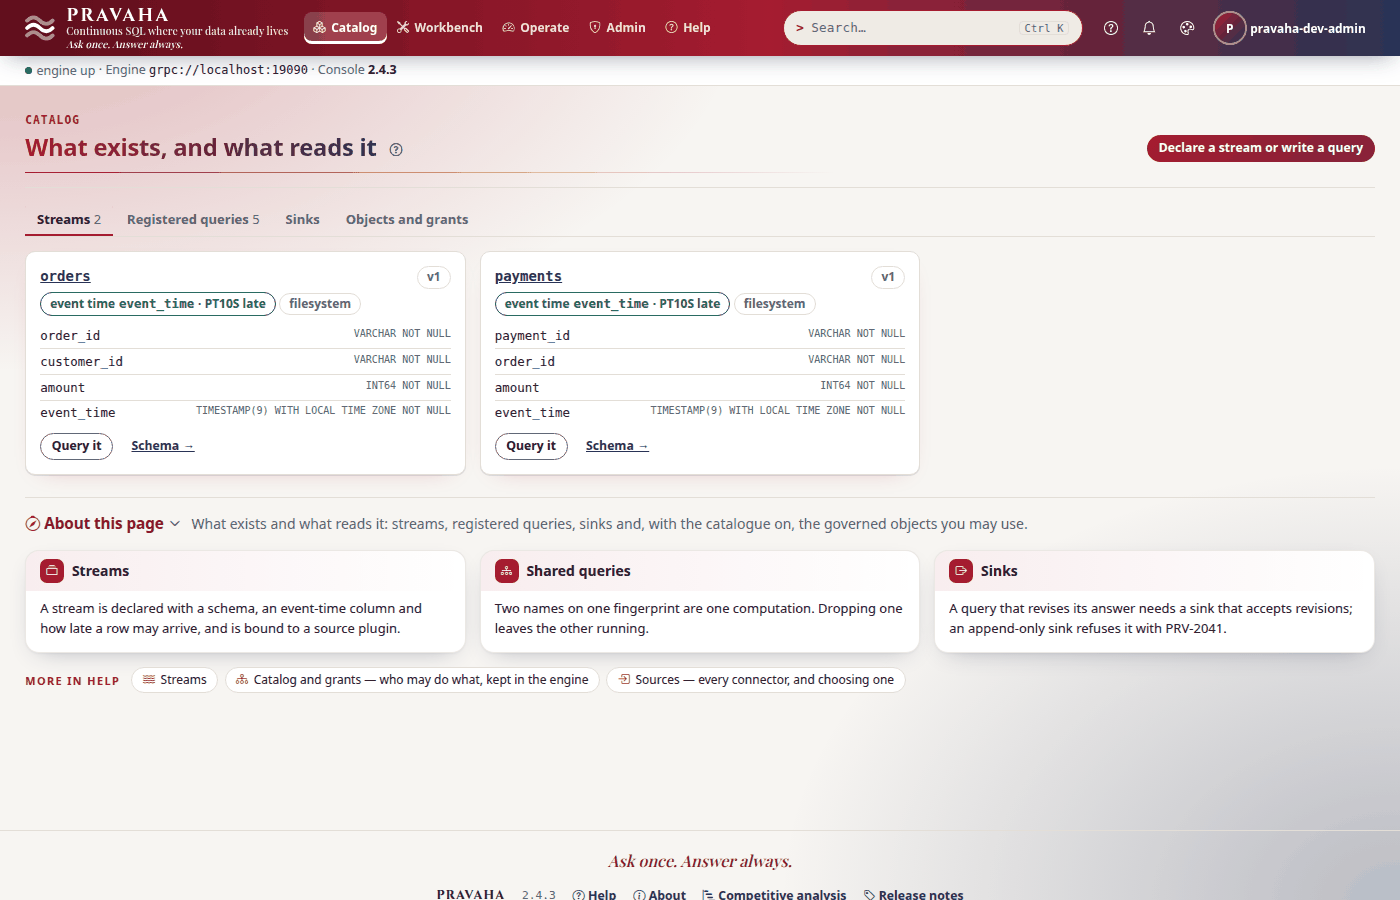
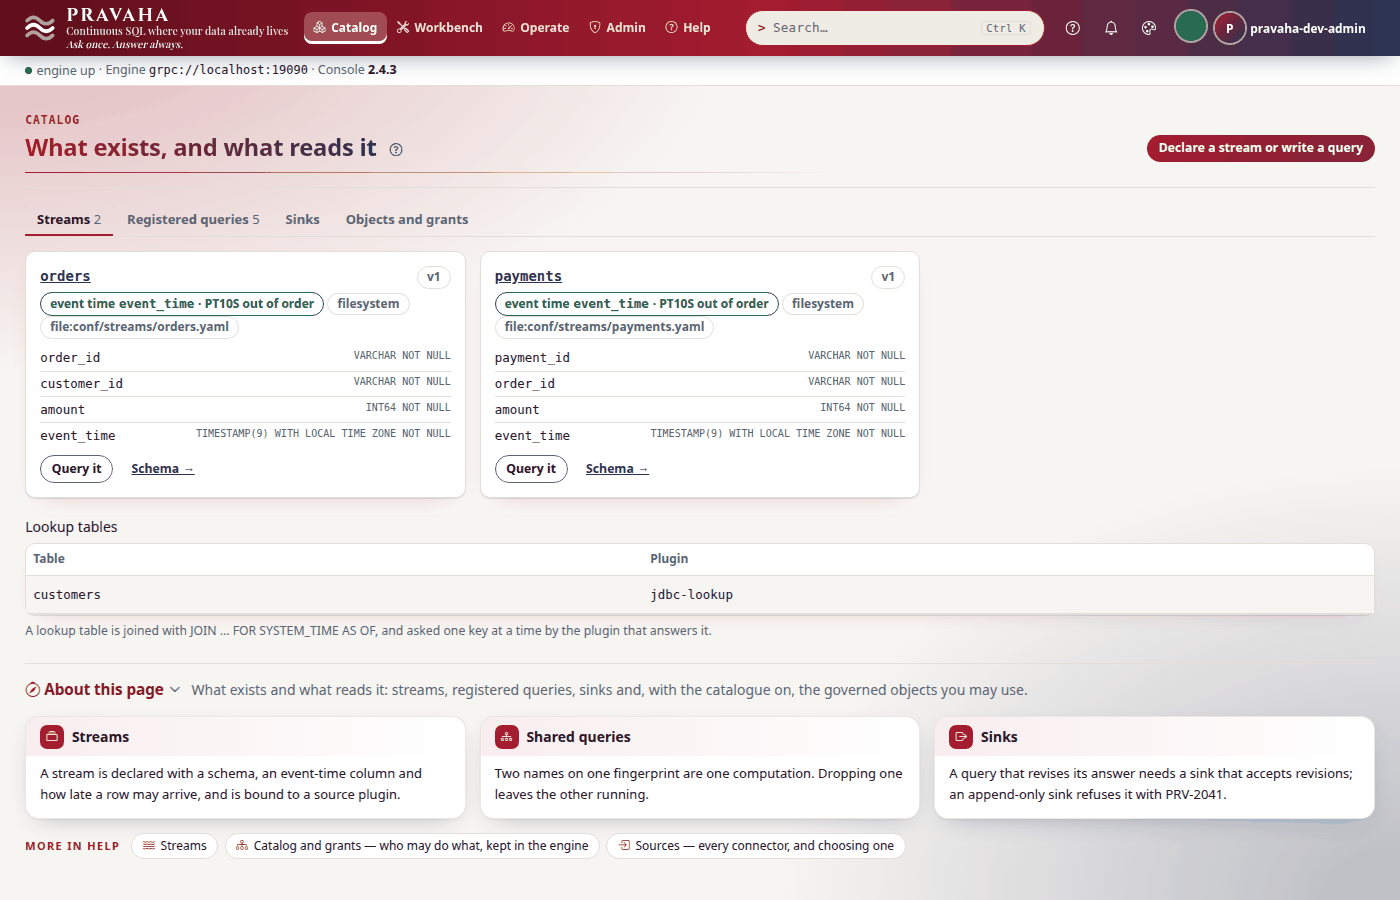
Tutorial 3: the streams and the lookup in conf/, the lookup's database as a named connection (pravaha connectors list); the Catalog with origins

diff --git a/sdk/python/tools/tutorials/t03.py b/sdk/python/tools/tutorials/t03.py
@@ -20,7 +20,10 @@ JAR = "plugins/h2-2.3.232.jar"
 URL = "jdbc:h2:./data/ref/customers;DATABASE_TO_LOWER=TRUE;AUTO_SERVER=TRUE"
 SHOWN_URL = "jdbc:h2:$PRAVAHA_HOME/data/ref/customers;DATABASE_TO_LOWER=TRUE;AUTO_SERVER=TRUE"
 
-NODE = Node(config="t03/application.yaml", jars=(H2,), files=(
+NODE = Node(jars=(H2,), files=(
+    ("t03/streams", "conf/streams"),
+    ("t03/lookups", "conf/lookups"),
+    ("t03/connectors", "conf/connectors"),
     ("t03/orders.csv", "data/incoming/orders.csv"),
     ("t03/payments.csv", "data/incoming/payments.csv"),
     ("t03/customers.sql", "customers.sql"),
@@ -66,6 +69,7 @@ EXPLAIN = ("(() => { [...document.querySelectorAll('button')].find(b => b.textCo
 STEPS = (
     Cli("t03-lookup-plugin", ("plugins",), omit=(r"^(?!NAME|filesystem|jdbc-lookup)",)),
     Cli("t03-streams", ("streams", "list")),
+    Cli("t03-connectors", ("connectors", "list")),
     Cli("t03-register-paid", ("register", "--name", "paid_orders", "--sql-file", "paid_orders.sql", "--keys", "0")),
     Until(("query", "--sql", "SELECT COUNT(*) AS n FROM paid_orders"), r"^3\s*$"),
     Cli("t03-query-paid", ("query", "--sql", "SELECT * FROM paid_orders")),

diff --git a/docs/tutorials/03-joins-and-lookups.md b/docs/tutorials/03-joins-and-lookups.md
@@ -19,8 +19,11 @@ Every output below was printed by a real node running these steps.
 
 - [Tutorial 1](01-first-15-minutes.md) done, and [tutorial 2](02-windows-and-late-data.md) for the
   watermark: a join's time bound is closed by the same clock.
-- The tutorial's files, in [data/t03/](data/t03/): `application.yaml`, `orders.csv` (six orders),
-  `payments.csv` (four payments), `customers.sql` (the customer table) and three queries.
+- The tutorial's files, in [data/t03/](data/t03/): the two streams (`streams/orders.yaml`,
+  `streams/payments.yaml`), the lookup (`lookups/customers.yaml`) and the database connection it uses
+  (`connectors/shop-db.yaml`) — a file each, which the node reads from the folders of those names
+  under its `conf/` — `orders.csv` (six orders), `payments.csv` (four payments), `customers.sql` (the
+  customer table) and three queries.
 - **The H2 database jar**, `h2-2.3.232.jar` — one file, from Maven Central
   (`com.h2database:h2:2.3.232`) or `~/.m2/repository/com/h2database/h2/2.3.232/` after a build. H2 is
   an embedded SQL database: the table is a file in the node's home, so the lookup is a real JDBC
@@ -31,7 +34,7 @@ Every output below was printed by a real node running these steps.
 ```bash
 export PRAVAHA_HOME=$HOME/pravaha-t03
 mkdir -p $PRAVAHA_HOME/conf $PRAVAHA_HOME/data/incoming $PRAVAHA_HOME/plugins
-cp docs/tutorials/data/t03/application.yaml $PRAVAHA_HOME/conf/
+cp -r docs/tutorials/data/t03/{streams,lookups,connectors} $PRAVAHA_HOME/conf/
 cp docs/tutorials/data/t03/orders.csv docs/tutorials/data/t03/payments.csv $PRAVAHA_HOME/data/incoming/
 cp ~/.m2/repository/com/h2database/h2/2.3.232/h2-2.3.232.jar $PRAVAHA_HOME/plugins/
 cd docs/tutorials/data/t03            # the commands below read the .sql files from here
@@ -39,7 +42,7 @@ cd docs/tutorials/data/t03            # the commands below read the .sql files f
 
 ## What you will learn
 
-- how a lookup is configured (`pravaha.lookups`, the `jdbc-lookup` plugin, a driver in `plugins/`) and how it differs from a stream;
+- how a lookup is configured (a file in `conf/lookups/`, the `jdbc-lookup` plugin, a driver in `plugins/`), how a named connection holds the database once, and how a lookup differs from a stream;
 - a stream–stream `JOIN` with a time bound, and what its plan looks like;
 - a `LEFT` join that finds what did *not* happen, and why it needs a bound to exist at all;
 - why a join is only as current as its slower stream;
@@ -70,23 +73,31 @@ INSERT INTO customers VALUES ('c-3', 'Chen Li', 'bronze', 'west');
 
 `DATABASE_TO_LOWER=TRUE` keeps the table's names in lower case, as the SQL writes them;
 `AUTO_SERVER=TRUE` lets a second process (H2's shell, in Step 7) open the file while the node holds
-it. Customer `c-4` is deliberately missing. The node's configuration declares two streams and one
-**lookup**:
+it. Customer `c-4` is deliberately missing. The node's `conf/` declares two streams and one
+**lookup**, and the lookup reaches the database through a **named connection** — where the database
+is and who the node is to it, written once for every lookup that asks it:
 
 ```yaml
-# data/t03/application.yaml (the lookup)
-pravaha:
-  lookups:
-    customers:
-      plugin: jdbc-lookup
-      options:
-        url: "jdbc:h2:./data/ref/customers;DATABASE_TO_LOWER=TRUE;AUTO_SERVER=TRUE"
-        user: sa
-        table: customers              # the name a query joins
-        key.columns: customer_id
-        pool.size: "2"
-        cache.seconds: "0"            # ask every time: a change to the table is seen at once
+# conf/connectors/shop-db.yaml (the connection)
+plugin: jdbc-lookup
+options:
+  url: "jdbc:h2:./data/ref/customers;DATABASE_TO_LOWER=TRUE;AUTO_SERVER=TRUE"
+  user: sa
+  pool.size: "2"
 ```
+
+```yaml
+# conf/lookups/customers.yaml (the lookup: only what is its own)
+connector: shop-db
+options:
+  table: customers              # the name a query joins
+  key.columns: customer_id
+  cache.seconds: "0"            # ask every time: a change to the table is seen at once
+```
+
+The lookup's options are the connection's with its own laid over them — on a clash the lookup's win.
+A second table in the same database is one more small file in `conf/lookups/`, and a password is
+written `${ENV_NAME}` in the connection, never literally (`PRV-1063`).
 
 A **source** feeds a stream: it is consumed, and its event time drives watermarks. A **lookup** is
 only *asked*, one key at a time: it never advances event time and holds no state to checkpoint, so a
@@ -108,9 +119,19 @@ jdbc-lookup       <version>    lookup       yes         yes     UNKNOWN  lookup:
 <!-- capture: t03-streams -->
 ```text
 $ pravaha streams list
-NAME      VERSION  EVENT TIME  LATENESS  SOURCE      FIELDS
-orders    1        event_time  PT10S     filesystem  order_id VARCHAR NOT NULL, customer_id VARCHAR NOT NULL, amount INT64 NOT NULL, event_time TIMESTAMP(9) WITH LOCAL TIME ZONE NOT NULL
-payments  1        event_time  PT10S     filesystem  payment_id VARCHAR NOT NULL, order_id VARCHAR NOT NULL, amount INT64 NOT NULL, event_time TIMESTAMP(9) WITH LOCAL TIME ZONE NOT NULL
+NAME      VERSION  EVENT TIME  LATENESS  SOURCE      ORIGIN                           FIELDS
+orders    1        event_time  PT10S     filesystem  file:conf/streams/orders.yaml    order_id VARCHAR NOT NULL, customer_id VARCHAR NOT NULL, amount INT64 NOT NULL, event_time TIMESTAMP(9) WITH LOCAL TIME ZONE NOT NULL
+payments  1        event_time  PT10S     filesystem  file:conf/streams/payments.yaml  payment_id VARCHAR NOT NULL, order_id VARCHAR NOT NULL, amount INT64 NOT NULL, event_time TIMESTAMP(9) WITH LOCAL TIME ZONE NOT NULL
+```
+<!-- /capture -->
+
+The connection, and what uses it — every password, secret or key in its options would show as `****`:
+
+<!-- capture: t03-connectors -->
+```text
+$ pravaha connectors list
+NAME     PLUGIN       ORIGIN                             USED BY
+shop-db  jdbc-lookup  file:conf/connectors/shop-db.yaml  lookup:customers
 ```
 <!-- /capture -->
 
@@ -118,7 +139,8 @@ A driver that is not in `plugins/`, a wrong URL or a refused password fails the 
 plugin's own message ("cannot connect to … Check the URL, the credentials, and that the driver is on
 the classpath"); a `key.columns` the table lacks is refused when the lookup opens.
 
-You should see `jdbc-lookup` bound as `lookup:customers`, and two streams.
+You should see `jdbc-lookup` bound as `lookup:customers`, two streams, and `shop-db` used by
+`lookup:customers`.
 
 ## Step 2 · Join two streams within a time bound
 
@@ -424,7 +446,7 @@ staleness traded for fewer round trips.
 The catalogue lists the two streams; the lookup is configuration, and `pravaha plugins` is where its
 binding shows:
 
-![The Catalog page: two stream cards, orders and payments, each with event time event_time, PT10S late and the filesystem source, and 5 registered queries](img/t03/04-catalog.png)
+![The Catalog page: two stream cards, orders and payments, each with event time event_time, PT10S late, the filesystem source and the file it was declared in, and 5 registered queries](img/t03/04-catalog.png)
 
 You should see `o-8` at `gold`, and `o-2` and `o-6` still at `silver`.
 
@@ -448,6 +470,7 @@ You should see `o-8` at `gold`, and `o-2` and `o-6` still at `silver`.
 | `PRV-2020` for a `LEFT` join between streams | it has no time bound | add `AND p.event_time BETWEEN o.event_time AND o.event_time + INTERVAL '5' MINUTE` |
 | `PRV-2020` for `RIGHT` or `FULL` | not built | swap the inputs and use `LEFT`, with a bound |
 | `PRV-2020` for a filter on a looked-up column | an inner lookup join cannot filter the lookup's side | `LEFT JOIN … FOR SYSTEM_TIME AS OF … WHERE c.tier = 'gold'` |
-| `PRV-2002` naming the lookup | the query names it by its key under `pravaha.lookups`, not its `table` | join the name the plugin gives the table (`table:` for `jdbc-lookup`) |
+| `PRV-1067` at start | the lookup names a connection no file in `conf/connectors/` declares | check the `connector:` name against the connection's file name |
+| `PRV-2002` naming the lookup | the query names it by its file's name, not its `table` | join the name the plugin gives the table (`table:` for `jdbc-lookup`) |
 | A `LEFT` join's view stops growing | one input has stopped, and the join moves at the slower stream | read both streams' newest event times; feed the quiet one |
 | A view holds fewer rows than you expect | the key conflates rows: a later row replaced an earlier one | key it by the column that identifies one fact |
